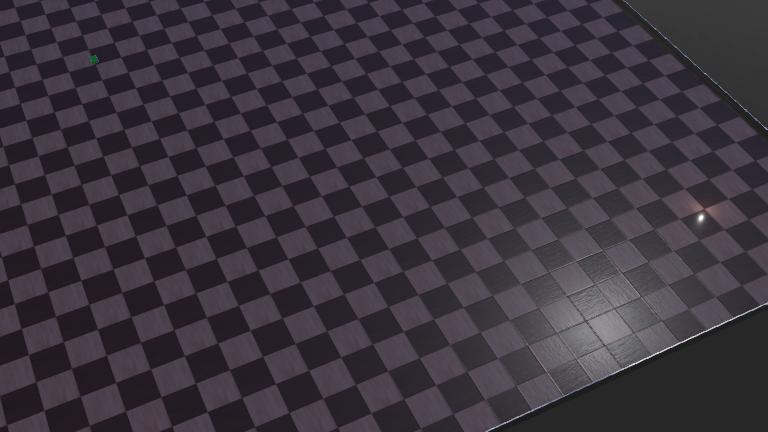
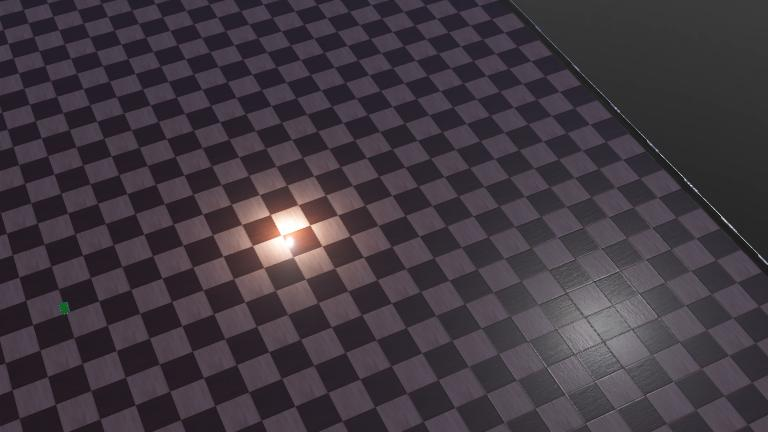
up

diff --git a/TestSuper/controllers/fire/fire.py b/TestSuper/controllers/fire/fire.py
@@ -1,84 +1,123 @@
 """fire controller."""
 from controller import Supervisor
-import time,random,math
+import time,random,math,numpy
+from collections import Counter
 
 no_lights = 5
 fire_square = (0,3)
-fire_locations = []
+fire_locations = {}
+fire_changes = {}
 robot = Supervisor()
 root = robot.getRoot()
 light_intensity_default = 0.1
-light_intensity_increment = 0.1
+light_intensity_increment = 0.01
 light_intensity_decrement = 0.2
+light_max = 2
+light_threshold = 1
+light_gen_chance = 0.001
 
 
-def get_fire_location():
+def add_fire_location(x,y):
+	light_id = len(fire_locations)+1
+	fire_locations.update({light_id:(x,y)})
+	return light_id
+
+def generate_fire_location():
 	y = random.randint(fire_square[0],fire_square[1])
 	x = random.randint(fire_square[0],fire_square[1])
-	while (x,y) in fire_locations:
+	while (x,y) in fire_locations.values():
 		y = random.randint(fire_square[0],fire_square[1])
 		x = random.randint(fire_square[0],fire_square[1])
-	#fire_locations.append((x,y))
-	return x,y
+	light_id = add_fire_location(x,y)
+	return light_id,x,y
+
+def get_random_adjecent_location(id):
+	#less than 0.5 generates a fire on x axis, greater on y axis
+	dist = 0.5
+	dir_x_y = numpy.random.uniform()
+	dir_more_less = numpy.random.uniform()
+	distance = dist if dir_more_less <0.5 else dist*-1
+	x,y = fire_locations[id]
+	new_x = x+distance if dir_x_y < 0.5 else x
+	new_y = y+distance if dir_x_y >= 0.5 else y
+	if (new_x,new_y) in fire_locations.values():
+		print("Already in dict, trying again")
+		get_random_adjecent_location(id)
+	light_id = add_fire_location(new_x,new_y)
+	return light_id,new_x,new_y
+
+
 
 def generateFire():
 	timestep = int(robot.getBasicTimeStep())
-	generatedLights = 0
 	children = root.getField('children')
 	children.importMFNodeFromString(-1,'DEF SteenRobot SimpleRobot { translation 0 4 0.1 }')
-	children.importMFNodeFromString(-1,'DEF PointLightFire1 PointLight { location 1 3 0.3 attenuation 0 0 1 intensity 2}')
-	children.importMFNodeFromString(-1,'DEF PointLightFire2 PointLight { location 1 4 0.3 attenuation 0 0 1 intensity 2}')
-	light_node = robot.getFromDef('PointLightFire1')
-	light_node2 = robot.getFromDef('PointLightFire2')
-	fire_locations.append(light_node.getField('location').getSFVec3f())
-	fire_locations.append(light_node2.getField('location').getSFVec3f())
+	for i in range(no_lights):
+		id,x,y = generate_fire_location()
+		children.importMFNodeFromString(-1,'DEF PointLight'+str(id)+' PointLight { location '+str(x)+' '+str(y)+' 0.1 attenuation 0 0 5 intensity 0.1}')
 	while robot.step(timestep) != -1:
-		# children.importMFNodeFromString(-1,'DEF PointLightFire PointLight { location '+str(x)+' '+str(y)+' 0.1 attenuation 0 0 1}')
-		"""
-		if len(fire_locations) != 0:
-			for idFireLoc,fireLoc in enumerate(fire_locations):
-						lightNodeTemp = robot.getFromDef('PointLightFire'+str(idFireLoc+1))
-						light_intensity_field = lightNodeTemp.getField('intensity')
-						light_intensity = light_intensity_field.getSFFloat()
-						light_intensity+=light_intensity_increment
-						print(light_intensity)
-						light_intensity_field.setSFFloat(light_intensity)
-		"""
-		"""
-		fire_translation = fire_translation_field.getSFVec3f()
-		t = [fire_translation[0], fire_translation[1], fire_translation[2]]
-		t[1] = 10000000
-		fire_translation_field.setSFVec3f(t)
-		"""
-		reduceFire("SteenRobot")
-		#time.sleep(1)
+
+		# Create a Counter from the dictionary values
+		counts = Counter(fire_locations.values())
+		# Create a new dictionary with only the keys whose value has a count greater than 1
+		result = {k: v for k, v in fire_locations.items() if counts[v] > 1}
+		if result:
+			print(result)
 		
+		for key in list(fire_locations):
+			temp_light_node = robot.getFromDef("PointLight"+str(key))
+			temp_light_intensity_field = temp_light_node.getField("intensity")
+			temp_light_intensity = temp_light_intensity_field.getSFFloat()
+			if temp_light_intensity > light_threshold:
+				cur_chance = numpy.random.uniform()
+				if cur_chance <= light_gen_chance:
+					id,new_x,new_y = get_random_adjecent_location(key)
+					children.importMFNodeFromString(-1,'DEF PointLight'+str(id)+' PointLight { location '+str(new_x)+' '+str(new_y)+' 0.1 attenuation 0 0 5} intensity 0.1')
+		# 	print(key,fire_locations[key])
+		# print("-----------------")
+		add_fire_changes()
+		reduceFire("SteenRobot")
+		handle_fire_changes()
+		#time.sleep(1)
+
+def add_fire_changes():
+	global fire_changes
+	fire_changes = {}
+	for key in list(fire_locations):
+		fire_changes[key] = light_intensity_increment
+
+def handle_fire_changes():
+	global fire_changes
+	toRemoveIds = []
+	print(fire_changes)
+	for key in list(fire_changes):
+		temp_light_node = robot.getFromDef("PointLight"+str(key))
+		temp_light_intensity_field = temp_light_node.getField("intensity")
+		temp_light_intensity = temp_light_intensity_field.getSFFloat()
+		if temp_light_intensity+fire_changes[key]<0:
+			toRemoveIds.append(key)
+			temp_light_node.remove()
+		elif temp_light_intensity + fire_changes[key] < light_max:
+			temp_light_intensity += fire_changes[key]
+			print("Setting intensity: "+str(temp_light_intensity))
+			temp_light_intensity_field.setSFFloat(temp_light_intensity)
+	print("removed"+str(toRemoveIds))
+	[fire_locations.pop(key) for key in toRemoveIds]
+
 def reduceFire(robotName):
+	global fire_changes
 	global fire_locations
 	fireSeeker = robot.getFromDef(robotName)
 	fireSeekerLocation = fireSeeker.getField('translation')
 	fireSeekerLocationVector = fireSeekerLocation.getSFVec3f()
 	fireSeekerLocationVector2d = [fireSeekerLocationVector[0],fireSeekerLocationVector[1]]
-	toRemoveIds = []
-	for idFireLoc,fireLoc in enumerate(fire_locations):
+	for idFireLoc, fireLoc in fire_locations.items():
 		fireLoc2d = [fireLoc[0],fireLoc[1]]
 		distance = math.dist(fireSeekerLocationVector2d, fireLoc2d)
-		print("Distance to fire: "+str(distance))
-		if distance<2:
-			light_node = robot.getFromDef('PointLightFire'+str(idFireLoc+1))
-			light_intensity_field = light_node.getField('intensity')
-			light_intensity = light_intensity_field.getSFFloat()
-			if 0 > light_intensity-(light_intensity_decrement):
-				light_node.remove()
-				toRemoveIds.append(idFireLoc)
-			else:
-				light_intensity-=light_intensity_decrement
-				light_intensity_field.setSFFloat(light_intensity)
-	fire_locations = [v for i, v in enumerate(fire_locations) if i not in toRemoveIds]
-				
-			
-
-
+		if distance<1:
+			print("Distance to fire2: "+str(distance))
+			fire_changes[idFireLoc] -= light_intensity_decrement		
+		
 if __name__ == '__main__':
 	generateFire()
 

diff --git a/TestRobot/controllers/LightController/LightController.py b/TestRobot/controllers/LightController/LightController.py
@@ -1,0 +1,11 @@
+from controller import Robot
+
+robot = Robot()
+light = robot.getDevice("PointLight")
+timestep = int(robot.getBasicTimeStep())
+    
+while robot.step(timestep) != -1:
+    print("Light: "+str(light))
+    
+    
+
